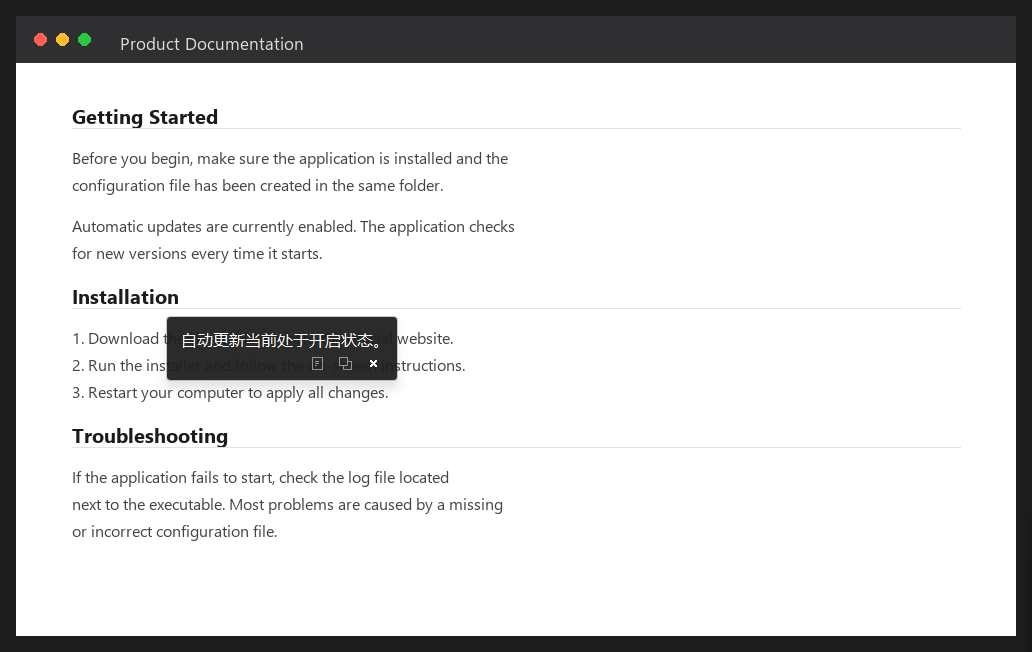
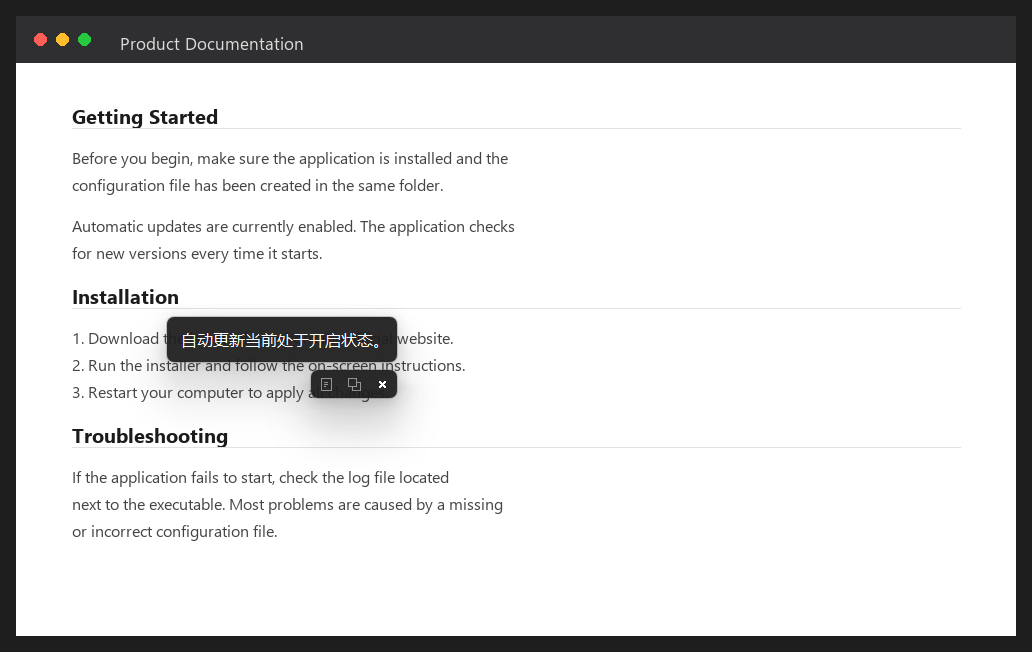
示例图跟上 v1.2.0 的新界面
译文浮层和设置窗口都改过，docs/ 下这两张还是旧布局。顺带修了生成脚本
一个一直存在的问题：裁图时 pad 超出了背景窗口边界，那圈边距裁的是真实
桌面（终端、游戏 HUD、输入法候选框都漏进来过），旧图只是碰巧那个位置
是纯色才没露馅。现在背景窗口铺满整屏，并在截图前按从下到上的顺序重新
抬一遍 —— 浮层创建后 Windows 会重排 topmost 的 z 序，只保证浮层在最上
并不够。

Changed region(s): [[0.155, 0.5521, 0.4031, 0.6748]]

diff --git a/dev/make_screenshots.py b/dev/make_screenshots.py
@@ -28,6 +28,10 @@ DOCS = os.path.join(HERE, "docs")
 
 W, H = 1000, 620
 WIN_X, WIN_Y = 420, 260          # 假界面窗口在屏幕上的位置
+# 四周留一圈纯色边距。裁图会带上这一圈，所以它必须是自己画出来的窗口 ——
+# 让 pad 超出窗口边界的话，裁到的就是真实桌面（终端、游戏、别的窗口全漏进来）。
+PAD = 16
+MARGIN_BG = "#1e1e1e"            # 边距颜色，和浮层底色一致
 
 # 文档正文（假的英文内容，用来演示"截英文翻中文"）
 LINES = [
@@ -132,12 +136,17 @@ def main() -> int:
     backdrop = tk.Toplevel(root)
     backdrop.overrideredirect(True)
     backdrop.attributes("-topmost", True)
-    backdrop.geometry("%dx%d+%d+%d" % (W, H, WIN_X, WIN_Y))
+    backdrop.configure(bg=MARGIN_BG)
+    # 铺满整屏，不只是为了那圈边距：屏幕上随时可能有别的 topmost 窗口
+    # （游戏 HUD、输入法候选框）盖在假界面上方，铺满 + 置顶才能压住它们。
+    backdrop.geometry("%dx%d+0+0" % (root.winfo_screenwidth(),
+                                     root.winfo_screenheight()))
     photo = None
     try:
         from PIL import ImageTk
         photo = ImageTk.PhotoImage(fake, master=backdrop)
-        tk.Label(backdrop, image=photo, bd=0).pack(fill="both", expand=True)
+        tk.Label(backdrop, image=photo, bd=0,
+                 bg=MARGIN_BG).place(x=WIN_X, y=WIN_Y)
     except Exception as exc:
         print("贴背景失败:", exc)
     backdrop.update()
@@ -160,8 +169,15 @@ def main() -> int:
     overlay.show_result(ORIGINAL, TRANSLATED)
     root.update()
     time.sleep(0.9)
+    # 从下到上重新抬一遍。只保证「浮层在最上」不够 —— 屏幕上随时可能有
+    # 第三方 topmost 窗口（游戏 HUD 之类）插进 backdrop 和浮层之间。
+    backdrop.lift()
+    overlay.win.lift()
+    overlay.button_win.lift()
+    root.update()
+    time.sleep(0.5)
     shot = grab()
-    crop_window(shot, WIN_X, WIN_Y, W, H, pad=16).save(
+    crop_window(shot, WIN_X, WIN_Y, W, H, pad=PAD).save(
         os.path.join(DOCS, "screenshot-overlay.png"))
     print("saved docs/screenshot-overlay.png", flush=True)
     overlay.close()
@@ -170,18 +186,34 @@ def main() -> int:
 
     # ---------- 3. 设置窗口 ----------
     install_styles(root)
+    sx, sy = WIN_X + 230, WIN_Y - 40
     win = SettingsWindow(root, cfg)
-    win.win.geometry("+%d+%d" % (WIN_X + 230, WIN_Y - 40))
+    win.win.geometry("+%d+%d" % (sx, sy))
     win.win.deiconify()
-    win.win.lift()
     root.update()
-    time.sleep(1.0)
-    shot2 = grab()
     gw = win.win.winfo_width()
     gh = win.win.winfo_height()
-    crop_window(shot2, WIN_X + 230, WIN_Y - 40, gw, gh, pad=14).save(
+
+    # 同样铺满整屏，理由同 backdrop
+    margin = tk.Toplevel(root)
+    margin.overrideredirect(True)
+    margin.attributes("-topmost", True)
+    margin.configure(bg=MARGIN_BG)
+    margin.geometry("%dx%d+0+0" % (root.winfo_screenwidth(),
+                                   root.winfo_screenheight()))
+    margin.update()
+
+    # 同样从下到上抬一遍
+    backdrop.lift()
+    margin.lift()
+    win.win.lift()
+    root.update()
+    time.sleep(0.8)
+    shot2 = grab()
+    crop_window(shot2, sx, sy, gw, gh, pad=PAD).save(
         os.path.join(DOCS, "screenshot-settings.png"))
     print("saved docs/screenshot-settings.png", flush=True)
+    margin.destroy()
     win._close()
 
     backdrop.destroy()
